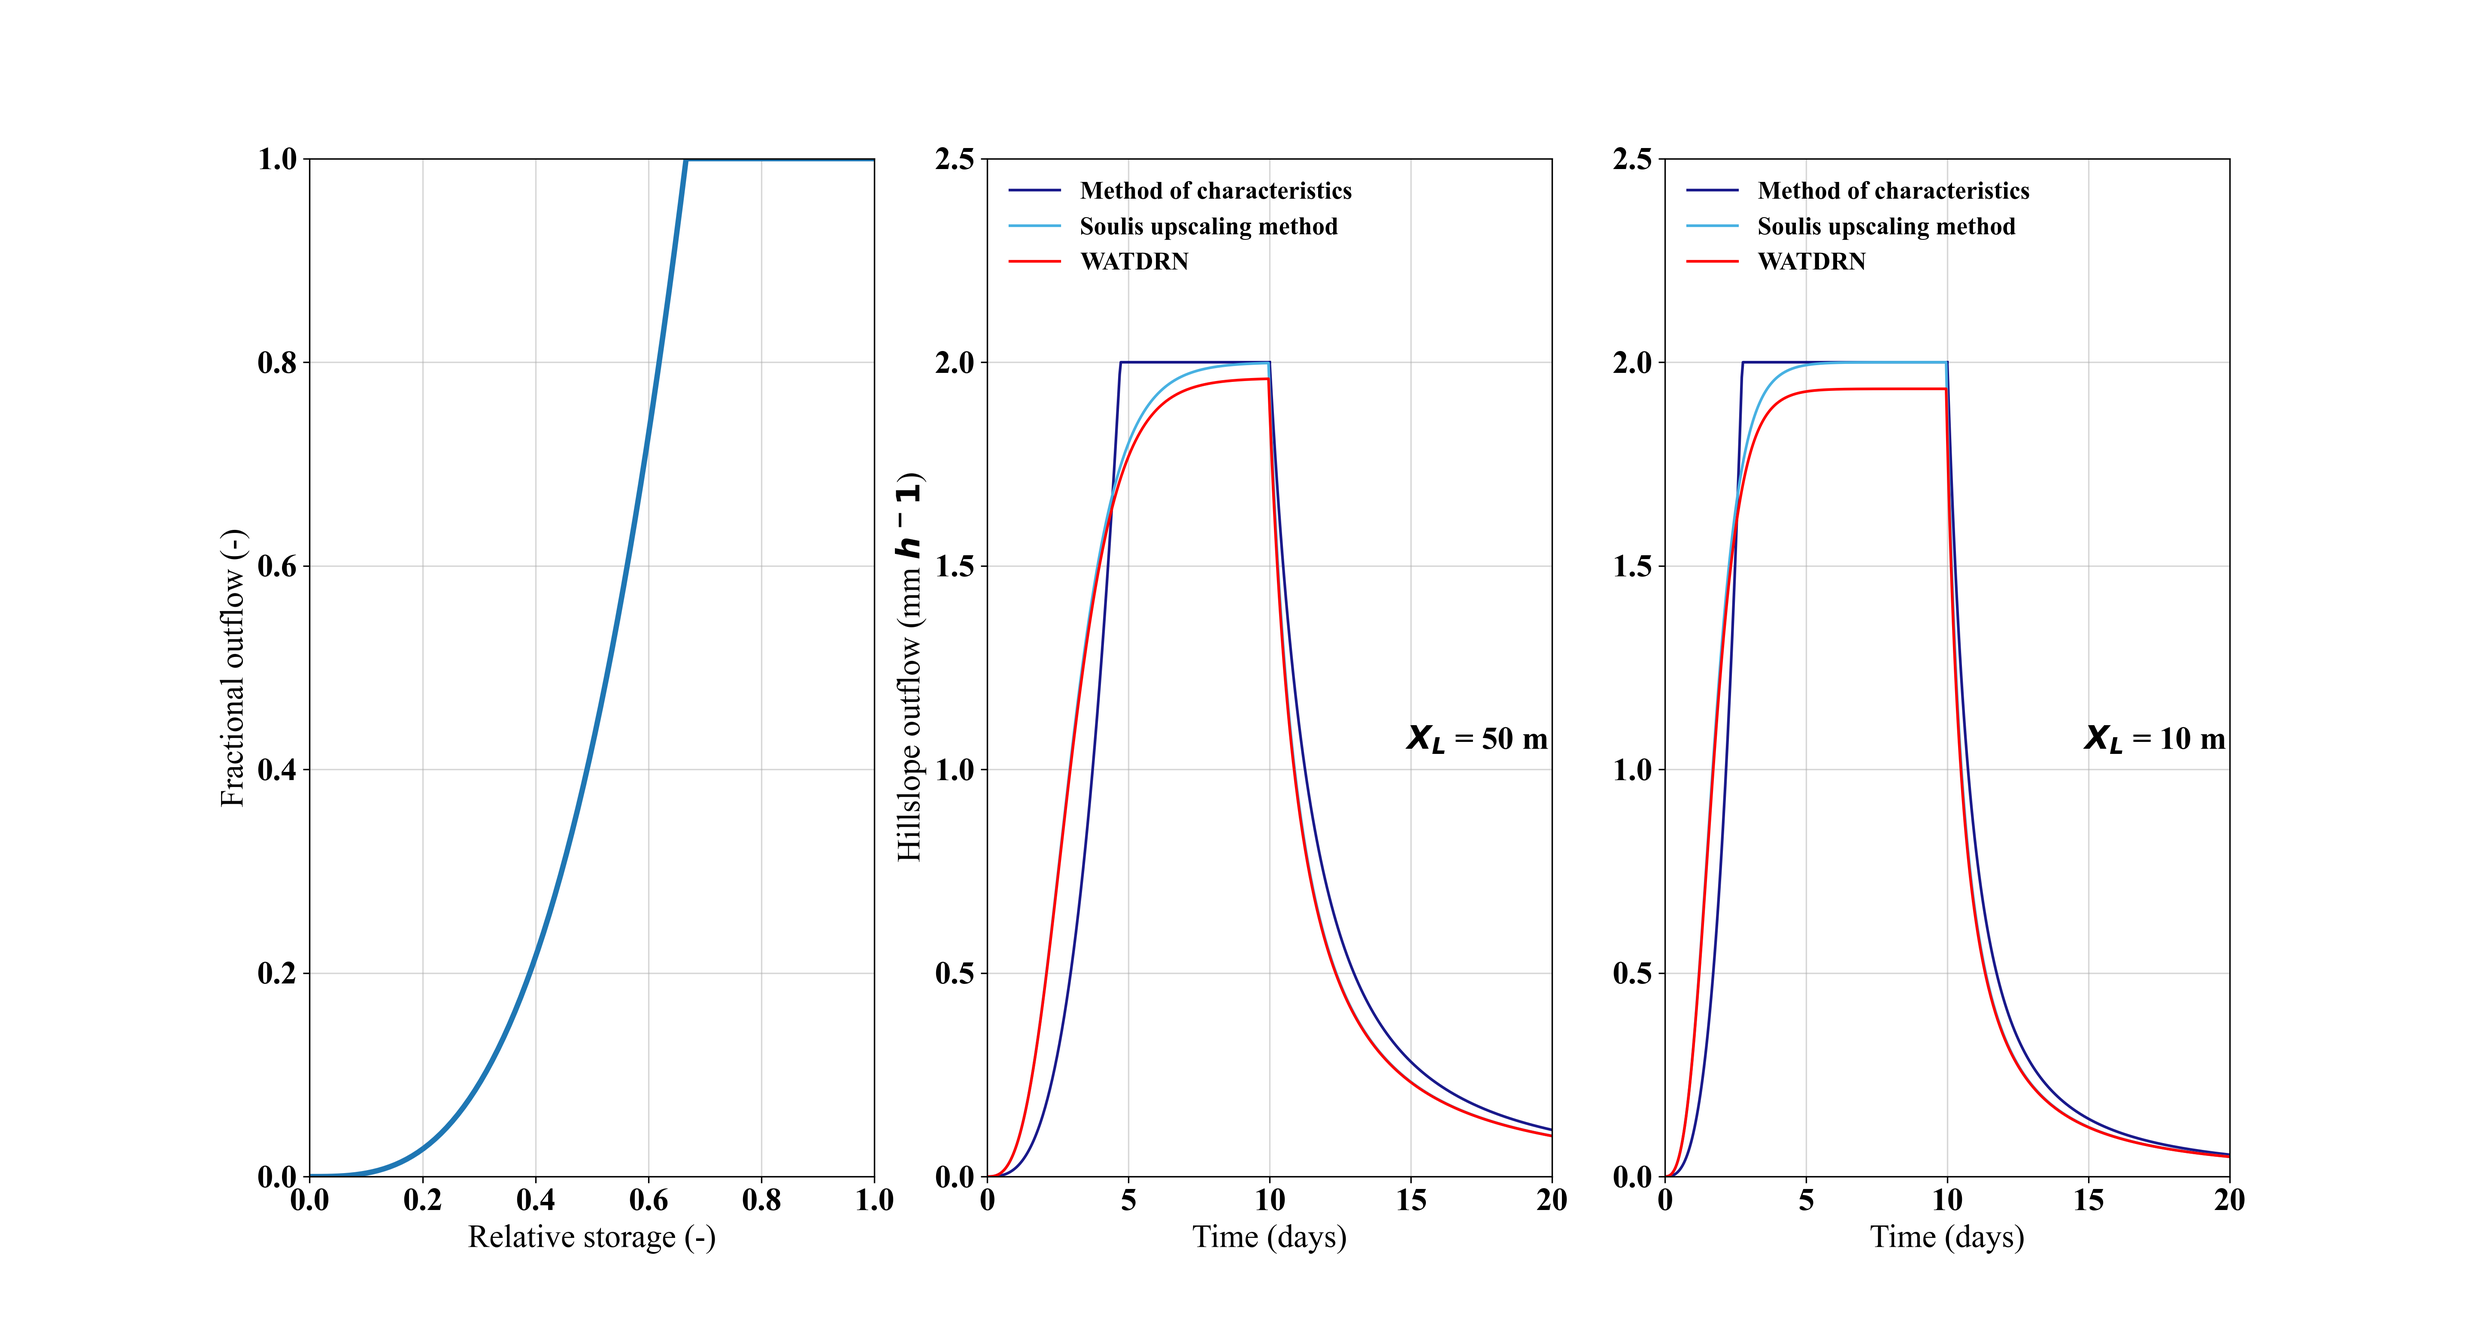
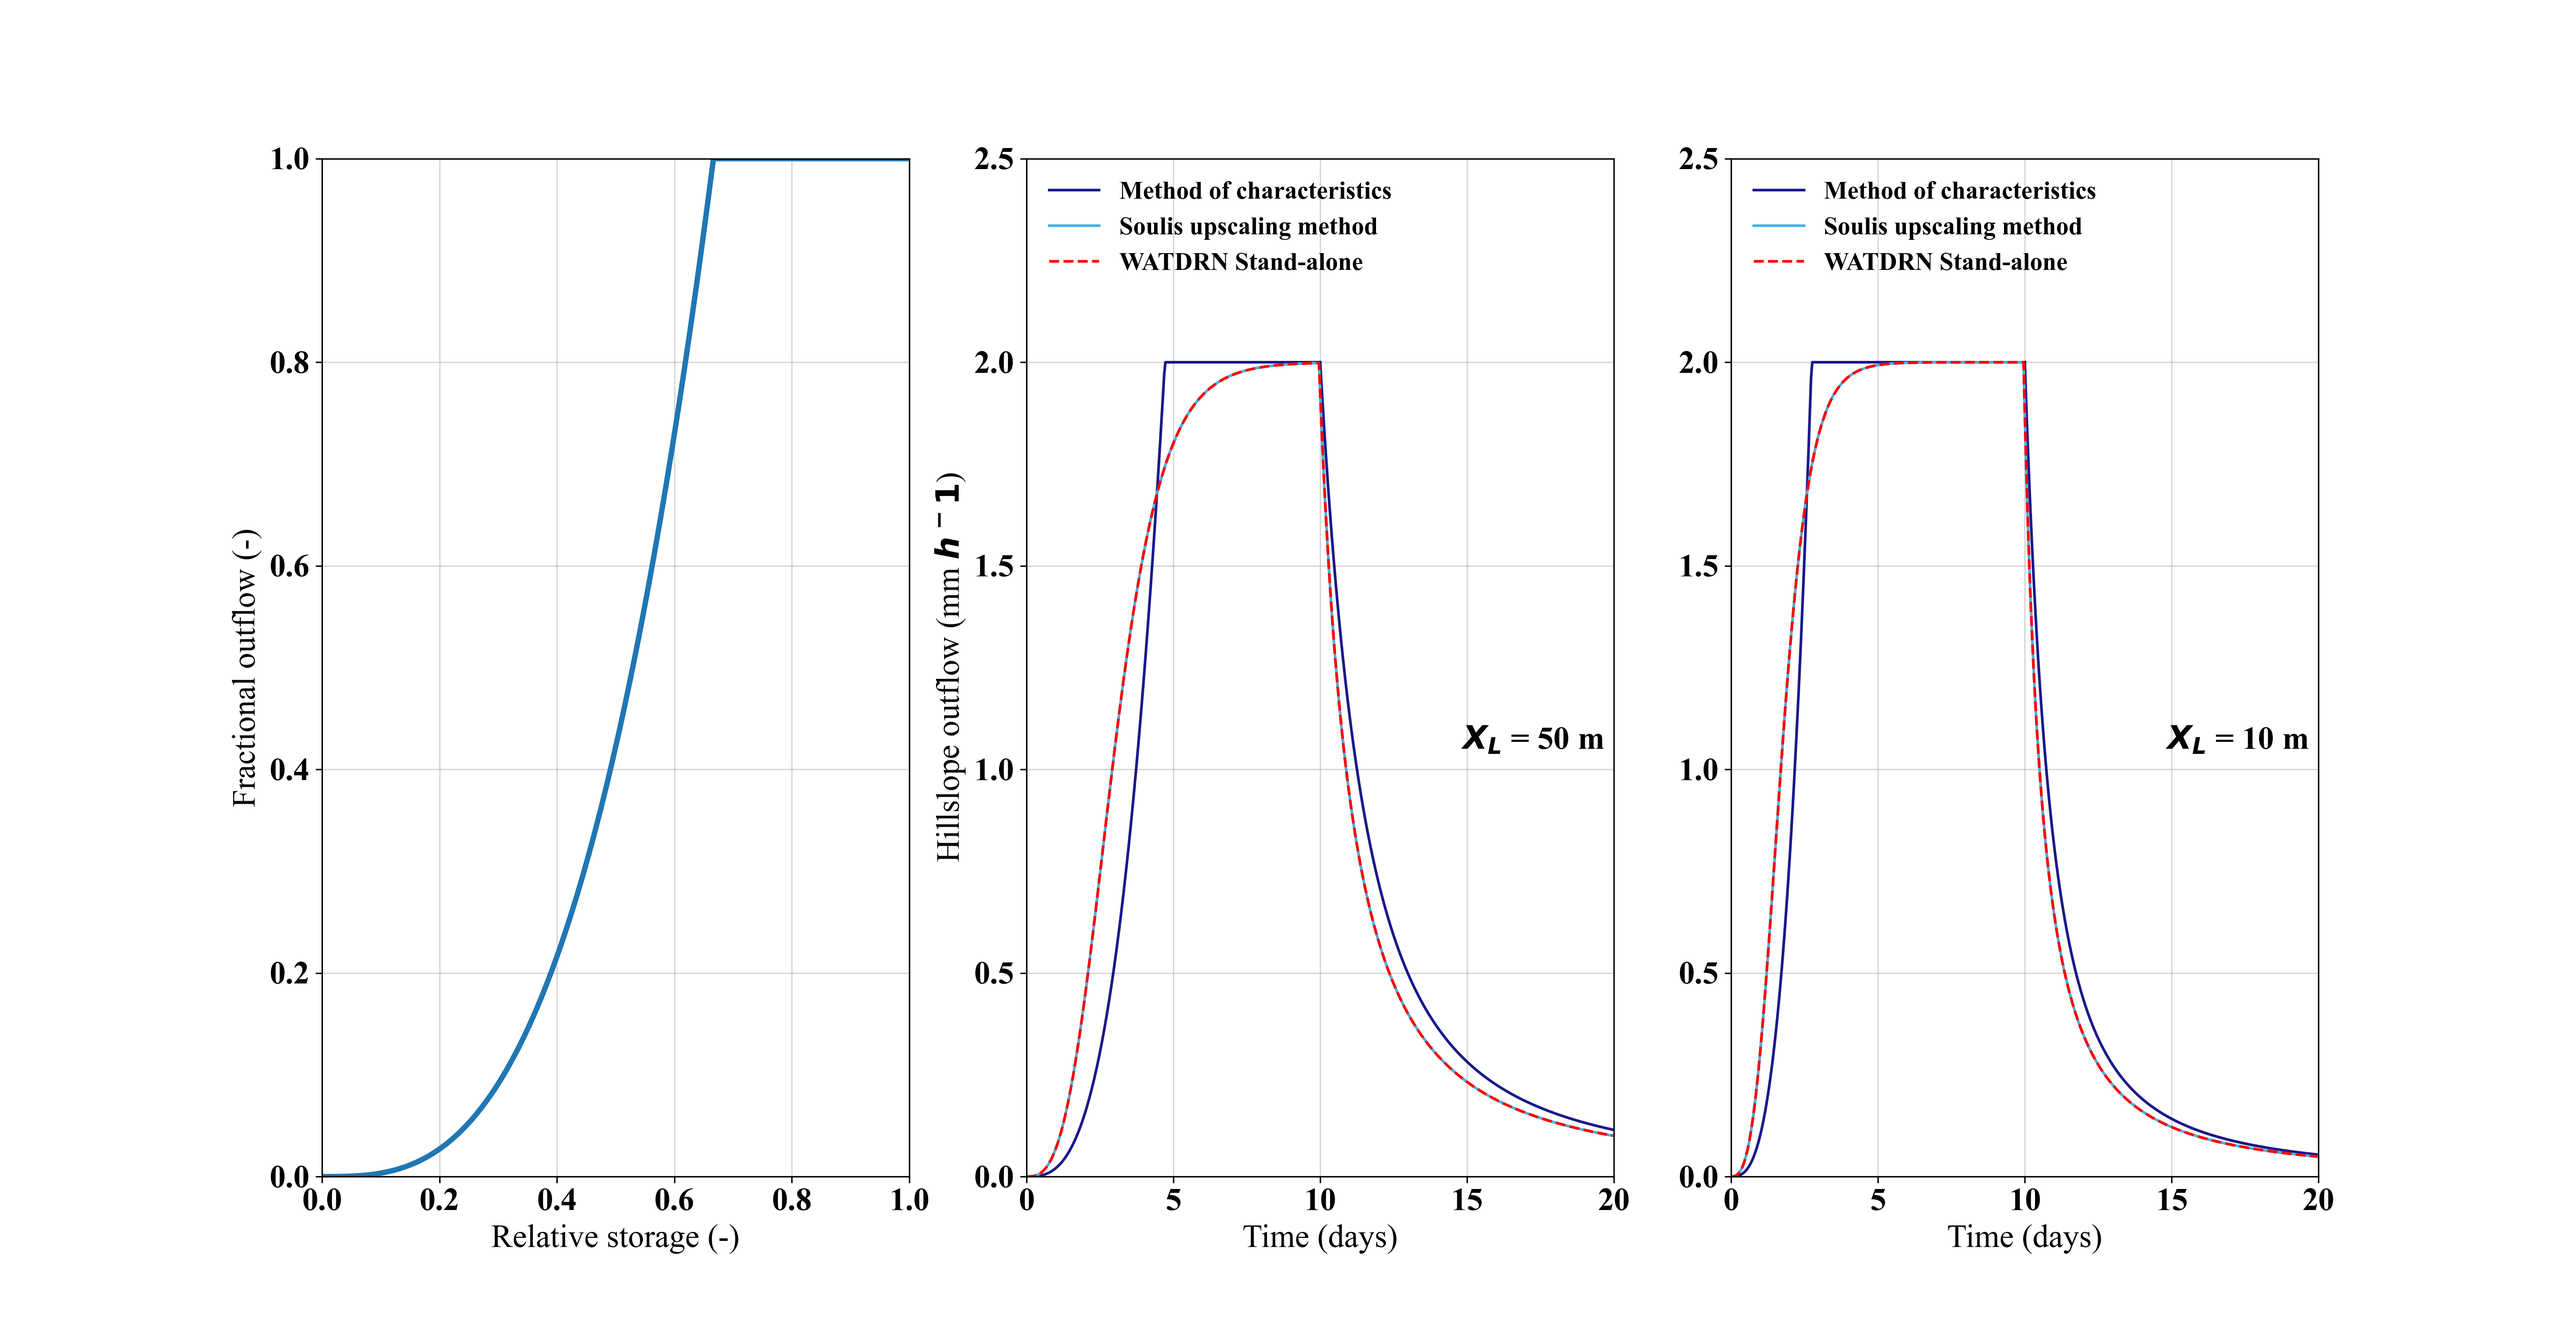
Update WATDRN_Simulation.py
1) Add WATDRN storage required for running stand-alone WATDRN for
 synthetic test based on section 2.3.2 and 2.4 paper of Martyn et al. (2023)

diff --git a/WATDRN_synthetic_tests/watdrn_simulation.py b/WATDRN_synthetic_tests/watdrn_simulation.py
@@ -10,8 +10,11 @@ See also: https://github.com/CH-Earth/laughTests/tree/master/lt4_wigmosta1994
 
 last modified: 03/14/2023
               1) include WATDRN stand-alone routines 
-              2) add WATDRN simulations to Moc and Soulis' upscaling method 
-    
+              2) add WATDRN simulations to MoC and Soulis' upscaling method 
+                
+              03/21/2023
+              1) Add WATDRN storage required for running stand-alone WATDRN for 
+                synthetic test based on section 2.3.2 and 2.4 paper of Martyn et al. (2023)
 """
 #%% import modules 
 import matplotlib
@@ -106,6 +109,8 @@ grkeff2         = kl*xslope*2.0*Dd2/(1+xslope**2)  # [hour^-1]
 
 #thpor_avail[i] = np.max((thlmin[i,j],thpor_avail[i]))
 thpor_avail = porosity 
+
+time_sim = np.linspace(0, duration, len(precip))
 
 #%% # Set font labels
 font = {'family' : 'Times New Roman',
@@ -380,6 +385,48 @@ def TOPMODEL_upscaling_outflow_saturated (qForce, kH, xL, zSoil, phi, nm, m, n):
         tVec[iForce]    = xTime 
     
     return zSave, qSave, tVec
+#%% WATDRN storage 
+def WATDRN_storage (qForce, kH, xL, zSoil, phi, eta, dt):
+    
+    # this is based on native WATDRN algorithm 
+    #define the time step
+    nForce = len(qForce)
+    
+    #initialize (mx points distributed across the full space)
+    S0 = 1.e-8
+    
+    #save variables
+    sWATDRN = np.zeros(nForce)
+    qWATDRN = np.zeros(nForce)
+    
+    # get temporally constant variables
+    tf = phi*xL/(kH*eta) # time that the drying front reaches the bottom of the hillslope
+    Sc = 1.0 - 1.0/eta   # spatially-averaged relatve storage at time tf
+    
+    # loop through points on the characteristic curve 
+    for iForce in range(nForce):
+        
+        # compute the time required for spatially-averaged storage to reach the state from the host land model
+        # - only consider case 2: the toe of the hillslope is not fully saturated
+        tr = tf*(S0/Sc)**(1.0 - eta)
+        
+        # compute the storage at the time tr + Delta t
+        t1 = tr + dt
+        S1 = Sc*(tf/t1)**(1.0/(eta - 1.0))
+        
+        # compute the lateral flow from mass balance
+        qx = phi*zSoil*(S0 - S1)/dt
+        #print, iForce, S0, S1, [qSave[iForce], qx]*1000.d
+        
+        #update states
+        Sn = S0 + (qForce[iForce] - qx)/(zSoil*phi)
+        S0 = Sn
+        
+        # save data
+        sWATDRN[iForce]   = S0
+        qWATDRN[iForce]   = qx
+    
+    return sWATDRN, qWATDRN  
 
 #%% WATDRN routine 
 # NB: as this experiment is run over one tile, the loop over tiles has been removed  
@@ -552,25 +599,6 @@ def exav(x):
         exav = 1.0-x/2.0
     return exav
 
-#%% Purpose is to find out how Xl and Hl during the rising of hydrograph
-# qKin1, qFall1, texit1, xL, hL  = kinematic_runoff(surfHydCond, soilDepth, TOPMODEL_exp, porosity, hillWidth * totalLength1, 
-#                                          hillWidth, totalLength1, hill_dist1,  precip)
-# # ploting until rain stops 
-# fig,axs = plt.subplots(1,1, figsize=(20,20))
-# axs.plot(xL[0:240],hL[0:240])
-
-# # set axes
-# axs.set_xlim(0,totalLength1)
-# axs.set_ylim(0, soilDepth)
-
-# # set titles 
-# axs.set_xlabel('Xl [m]')
-# axs.set_ylabel('Water table height [m]')
-# axs.set_title('Time series of water table height changes during 10 days ')
-
-# plt.savefig(outdir+'WaterTable.png', format='png', dpi=300)
-# plt.close()
-
 #%% Figure 3- Rainfall pulse 
 itime1 = 24
 itime2 = 2*24
@@ -690,8 +718,6 @@ plt.close()
 #%% Figure 5
 # calculate the spatially-averaged relative saturation at the critical time 
 
-duration  = 20 # [hours]
-
 # intialize spatially-averaged relative saturation 
 S = np.linspace(0, 1, num=100)
 
@@ -715,6 +741,11 @@ S_Soulis1, qx_soulis1, time_sim = Soulis_upscaling_outflow (precip, kH, totalLen
 
 S_Soulis2, qx_soulis2, time_sim = Soulis_upscaling_outflow (precip, kH, totalLength2, Sc, soilDepth, porosity, TOPMODEL_exp)
 
+
+# calling simulated WATDRN storage required for running Stand-alone WATDRN 
+sWATDRN1, qWATDRN1 = WATDRN_storage (precip, kH, totalLength1, soilDepth, porosity, TOPMODEL_exp, delt)
+sWATDRN2, qWATDRN2 = WATDRN_storage (precip, kH, totalLength2, soilDepth, porosity, TOPMODEL_exp, delt)
+
 #---------------------------------------
 # calling WATDRN routine  
 # variables related to WATDRN routine 
@@ -736,7 +767,7 @@ satfc2   = np.zeros(p)
 # loop over entire time window of simulation for two hillslope lengths 
 for i in range(p):
     # hillslope with length of totalLength1
-    [asat_t1[i], subflw1[i], basflw1[i], satfc1[i]] = WATDRN (delzw,bij,thpor_avail,ksat,grkeff1,S_Soulis1[i], IWF,\
+    [asat_t1[i], subflw1[i], basflw1[i], satfc1[i]] = WATDRN (delzw,bij,thpor_avail,ksat,grkeff1,sWATDRN1[i], IWF,\
                                                              ILG,IL1,IL2,1,delt)
     
     # NB: in the source code of WATDRN the lateral flow is not devided by time step
@@ -744,11 +775,10 @@ for i in range(p):
 
     
     # hillslope with length of totalLength2    
-    [asat_t2[i], subflw2[i],basflw2[i],satfc2[i]] = WATDRN (delzw,bij,thpor_avail,ksat,grkeff2,S_Soulis2[i],IWF,\
+    [asat_t2[i], subflw2[i],basflw2[i],satfc2[i]] = WATDRN (delzw,bij,thpor_avail,ksat,grkeff2,sWATDRN2[i],IWF,\
                                                             ILG,IL1,IL2,1,delt)
     
     subflw2[i] = MM_PER_M * subflw2[i]/delt               # convert to [mm hour^-1]
-
 
 #---------------------------------------
 # plot results 
@@ -776,7 +806,7 @@ axs[1].plot(tExit1/24, MM_PER_M * qFall1, '#00007fe6')
 
 axs[1].plot(time_sim, MM_PER_M * qx_soulis1, '#47b1e2', label='Soulis upscaling method')
 
-axs[1].plot(time_sim, subflw1, '#ff0000', label='WATDRN')
+axs[1].plot(time_sim, subflw1, '#ff0000', linestyle = '--',label='WATDRN Stand-alone')
 
 axs[1].text(14.8, 1.05, '$X_{L}$ = 50 m')
 axs[1].legend(fontsize = 14, loc = 'upper left',frameon=False)
@@ -786,7 +816,7 @@ axs[2].plot(tExit2/24, MM_PER_M * qFall2, '#00007fe6')
 
 axs[2].plot(time_sim, MM_PER_M * qx_soulis2, '#47b1e2', label='Soulis upscaling method')
 
-axs[2].plot(time_sim, subflw2, '#ff0000', label='WATDRN')
+axs[2].plot(time_sim, subflw2, '#ff0000', linestyle = '--', label='WATDRN Stand-alone')
 
 axs[2].text(14.8, 1.05, '$X_{L}$ = 10 m')
 axs[2].legend(fontsize = 14, loc = 'upper left',frameon=False)
@@ -806,25 +836,7 @@ axs[2].grid(alpha=0.5)
 
 plt.savefig(outdir+'Figure5_WATDRN.png', format='png', dpi=300)
 plt.close()
-
-#%% a test simulation based on WATDRN  
-# deltat = 30/60    #[hours]
-# qx_soulis = np.zeros(1000)
-# for i in range(1000):
-#     if (i == 0):
-#         S1 = 0.4038
-#         print('Initial state')
-        
-#     tr  = tf * (S1/Sc)**(1 - TOPMODEL_exp)
-#     tq = tr + deltat 
-    
-#     # eq. (32)
-#     S2 = Sc * ((totalLength1 * porosity)/(tq * kH * TOPMODEL_exp)) **(1/(TOPMODEL_exp -1))
-#     qx_soulis[i] = MM_PER_M * porosity * abs(S2 -S1)/deltat
-#     S1 = S2
-    
-# plt.plot(qx_soulis)    
-    
+       
 #%% figure 6 Behavior of Soulis’ upscaling method applied to saturated flow problems  
 # calculate hillslope outflow based on water table depth 
 nm         = soilDepth                                        #[m]
